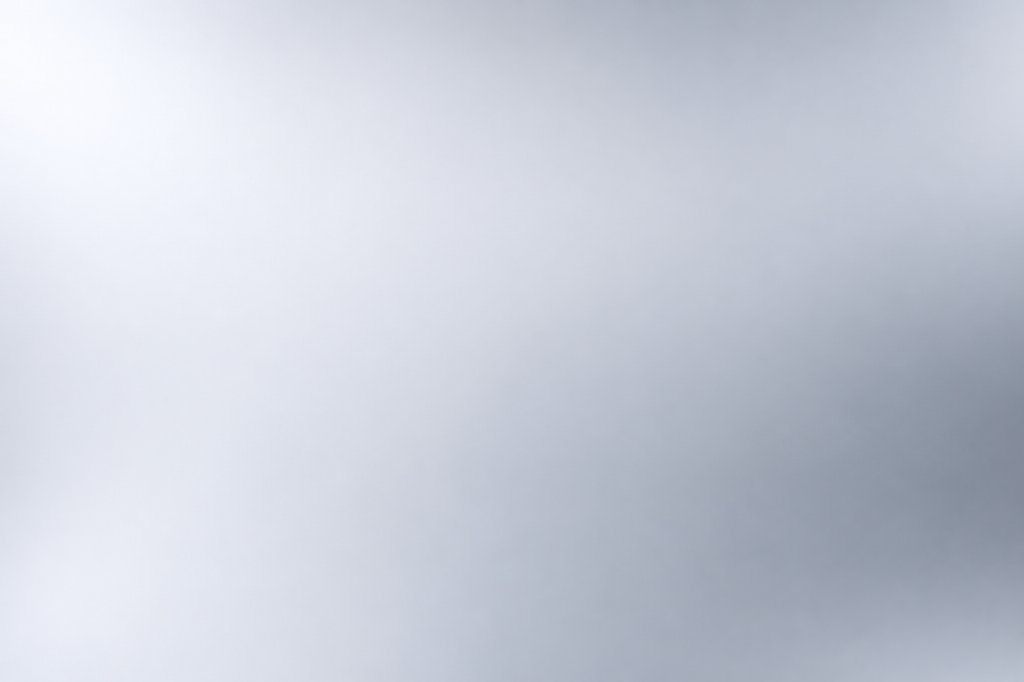
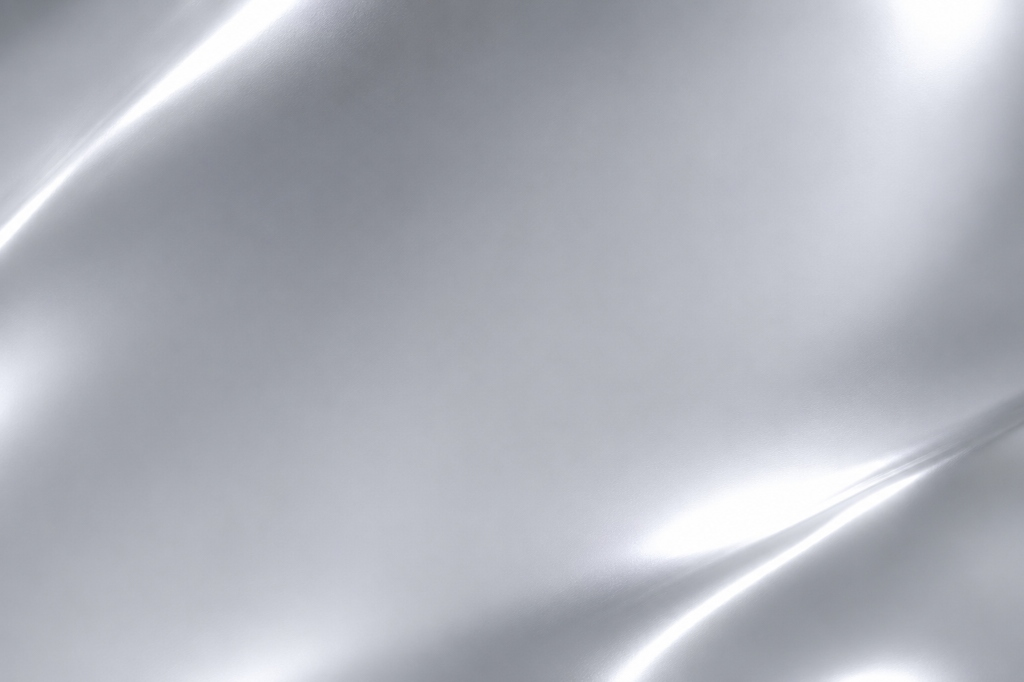
Update background across website to liquid satin silver wave texture

diff --git a/index.html b/index.html
@@ -20,7 +20,7 @@
     <link rel="preconnect" href="https://fonts.googleapis.com">
     <link rel="preconnect" href="https://fonts.gstatic.com" crossorigin>
     <link href="https://fonts.googleapis.com/css2?family=Cormorant+Garamond:ital,wght@0,300;0,400;0,500;0,600;0,700;1,400;1,500;1,600;1,700&family=Italiana&family=Playfair+Display:ital,wght@0,400;0,500;0,600;0,700;1,400;1,600;1,700&family=Plus+Jakarta+Sans:wght@300;400;500;600;700&family=DM+Sans:ital,opsz,wght@0,9..40,300;0,9..40,400;0,9..40,500;0,9..40,600;0,9..40,700;1,9..40,400&display=swap" rel="stylesheet">
-    <script type="module" crossorigin src="/assets/index-PlezzyV3.js?v=20261102_silver_glass_v2"></script>
+    <script type="module" crossorigin src="/assets/index-PlezzyV3.js?v=20261102_liquid_silver_wave_v3"></script>
     <link rel="stylesheet" crossorigin href="/assets/index-eZDzgBVB.css">
     
     <style>
@@ -1279,7 +1279,7 @@
       /* Whole website background replaced with attached iridescent fluid pearl silk image */
       html, body {
         background-color: #d8dde6 !important;
-        background-image: url('/assets/shiny-silver-foil-bg.jpg?v=20261102_silver_glass_v2') !important;
+        background-image: url('/assets/shiny-silver-foil-bg.jpg?v=20261102_liquid_silver_wave_v3') !important;
         background-size: cover !important;
         background-position: center center !important;
         background-attachment: fixed !important;
@@ -1293,7 +1293,7 @@
         height: 100%;
         min-height: 100dvh;
         z-index: 0;
-        background-image: url('/assets/shiny-silver-foil-bg.jpg?v=20261102_silver_glass_v2');
+        background-image: url('/assets/shiny-silver-foil-bg.jpg?v=20261102_liquid_silver_wave_v3');
         background-size: cover;
         background-position: center center;
         background-attachment: fixed;
@@ -1762,7 +1762,7 @@
           radial-gradient(circle at 80% 20%, rgba(255, 255, 255, 0.38) 0%, rgba(210, 222, 238, 0.18) 32%, transparent 65%),
           radial-gradient(circle at 15% 85%, rgba(240, 246, 255, 0.22) 0%, rgba(170, 185, 205, 0.12) 36%, transparent 60%),
           linear-gradient(135deg, rgba(245, 248, 255, 0.22) 0%, rgba(145, 158, 178, 0.18) 45%, rgba(12, 16, 24, 0.82) 100%),
-          url('/assets/shiny-silver-foil-bg.jpg?v=20261102_silver_glass_v2') !important;
+          url('/assets/shiny-silver-foil-bg.jpg?v=20261102_liquid_silver_wave_v3') !important;
         background-size: cover, cover, cover, cover !important;
         background-position: center, center, center, center !important;
         background-attachment: fixed !important;

diff --git a/collections.html b/collections.html
@@ -23,7 +23,7 @@
     <script>
       window.__PLEZZY_DEFAULT_VIEW__ = "collections";
     </script>
-    <script type="module" crossorigin src="/assets/index-PlezzyV3.js?v=20261102_silver_glass_v2"></script>
+    <script type="module" crossorigin src="/assets/index-PlezzyV3.js?v=20261102_liquid_silver_wave_v3"></script>
     <link rel="stylesheet" crossorigin href="/assets/index-eZDzgBVB.css">
     
     <style>
@@ -1282,7 +1282,7 @@
       /* Whole website background replaced with attached iridescent fluid pearl silk image */
       html, body {
         background-color: #d8dde6 !important;
-        background-image: url('/assets/shiny-silver-foil-bg.jpg?v=20261102_silver_glass_v2') !important;
+        background-image: url('/assets/shiny-silver-foil-bg.jpg?v=20261102_liquid_silver_wave_v3') !important;
         background-size: cover !important;
         background-position: center center !important;
         background-attachment: fixed !important;
@@ -1296,7 +1296,7 @@
         height: 100%;
         min-height: 100dvh;
         z-index: 0;
-        background-image: url('/assets/shiny-silver-foil-bg.jpg?v=20261102_silver_glass_v2');
+        background-image: url('/assets/shiny-silver-foil-bg.jpg?v=20261102_liquid_silver_wave_v3');
         background-size: cover;
         background-position: center center;
         background-attachment: fixed;
@@ -1765,7 +1765,7 @@
           radial-gradient(circle at 80% 20%, rgba(255, 255, 255, 0.38) 0%, rgba(210, 222, 238, 0.18) 32%, transparent 65%),
           radial-gradient(circle at 15% 85%, rgba(240, 246, 255, 0.22) 0%, rgba(170, 185, 205, 0.12) 36%, transparent 60%),
           linear-gradient(135deg, rgba(245, 248, 255, 0.22) 0%, rgba(145, 158, 178, 0.18) 45%, rgba(12, 16, 24, 0.82) 100%),
-          url('/assets/shiny-silver-foil-bg.jpg?v=20261102_silver_glass_v2') !important;
+          url('/assets/shiny-silver-foil-bg.jpg?v=20261102_liquid_silver_wave_v3') !important;
         background-size: cover, cover, cover, cover !important;
         background-position: center, center, center, center !important;
         background-attachment: fixed !important;

diff --git a/collections/index.html b/collections/index.html
@@ -23,7 +23,7 @@
     <script>
       window.__PLEZZY_DEFAULT_VIEW__ = "collections";
     </script>
-    <script type="module" crossorigin src="/assets/index-PlezzyV3.js?v=20261102_silver_glass_v2"></script>
+    <script type="module" crossorigin src="/assets/index-PlezzyV3.js?v=20261102_liquid_silver_wave_v3"></script>
     <link rel="stylesheet" crossorigin href="/assets/index-eZDzgBVB.css">
     
     <style>
@@ -1282,7 +1282,7 @@
       /* Whole website background replaced with attached iridescent fluid pearl silk image */
       html, body {
         background-color: #d8dde6 !important;
-        background-image: url('/assets/shiny-silver-foil-bg.jpg?v=20261102_silver_glass_v2') !important;
+        background-image: url('/assets/shiny-silver-foil-bg.jpg?v=20261102_liquid_silver_wave_v3') !important;
         background-size: cover !important;
         background-position: center center !important;
         background-attachment: fixed !important;
@@ -1296,7 +1296,7 @@
         height: 100%;
         min-height: 100dvh;
         z-index: 0;
-        background-image: url('/assets/shiny-silver-foil-bg.jpg?v=20261102_silver_glass_v2');
+        background-image: url('/assets/shiny-silver-foil-bg.jpg?v=20261102_liquid_silver_wave_v3');
         background-size: cover;
         background-position: center center;
         background-attachment: fixed;
@@ -1765,7 +1765,7 @@
           radial-gradient(circle at 80% 20%, rgba(255, 255, 255, 0.38) 0%, rgba(210, 222, 238, 0.18) 32%, transparent 65%),
           radial-gradient(circle at 15% 85%, rgba(240, 246, 255, 0.22) 0%, rgba(170, 185, 205, 0.12) 36%, transparent 60%),
           linear-gradient(135deg, rgba(245, 248, 255, 0.22) 0%, rgba(145, 158, 178, 0.18) 45%, rgba(12, 16, 24, 0.82) 100%),
-          url('/assets/shiny-silver-foil-bg.jpg?v=20261102_silver_glass_v2') !important;
+          url('/assets/shiny-silver-foil-bg.jpg?v=20261102_liquid_silver_wave_v3') !important;
         background-size: cover, cover, cover, cover !important;
         background-position: center, center, center, center !important;
         background-attachment: fixed !important;
